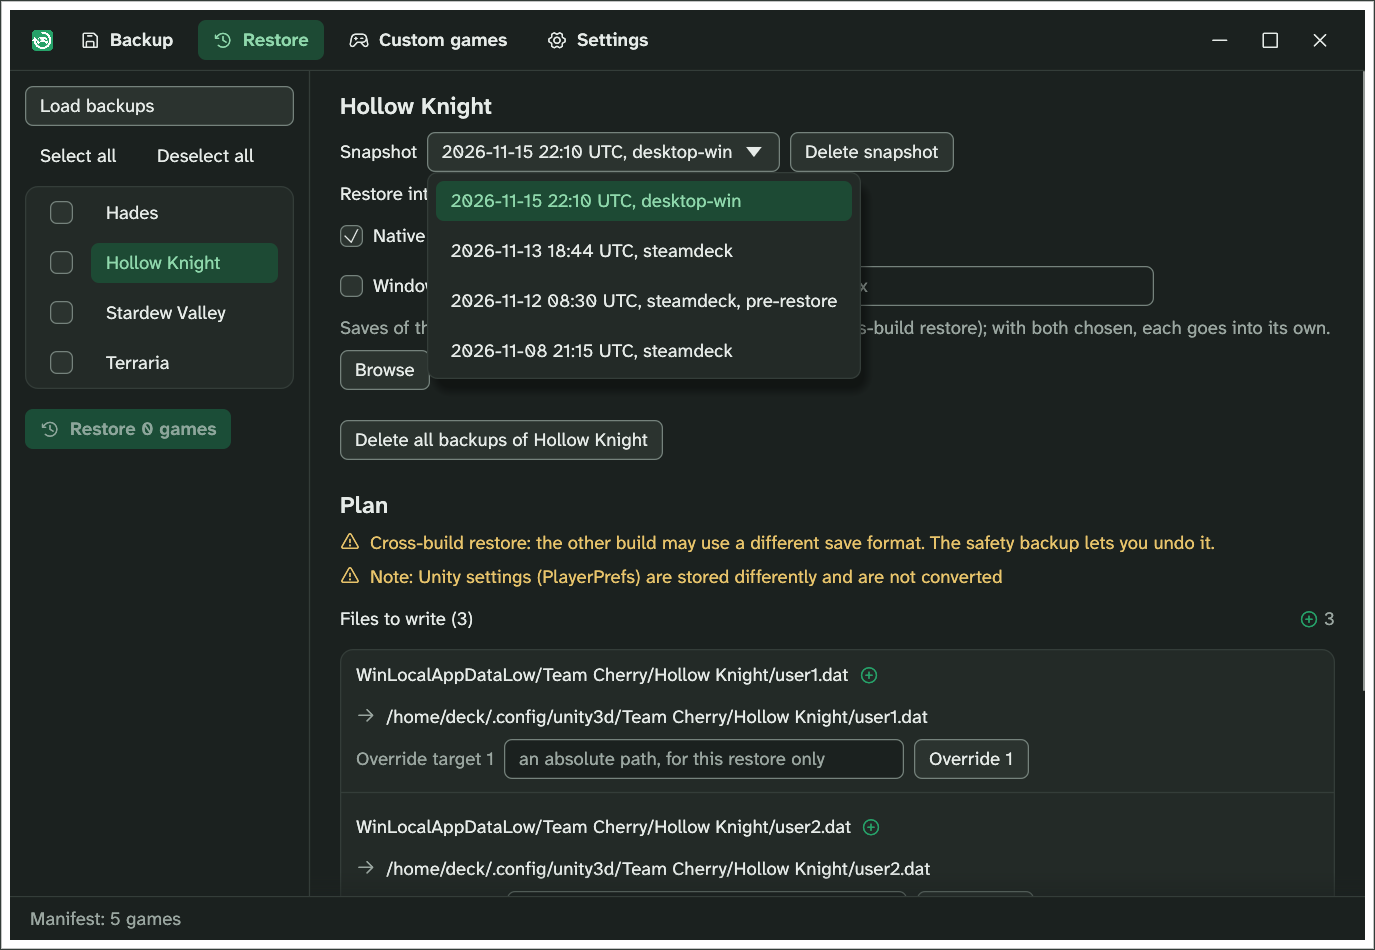
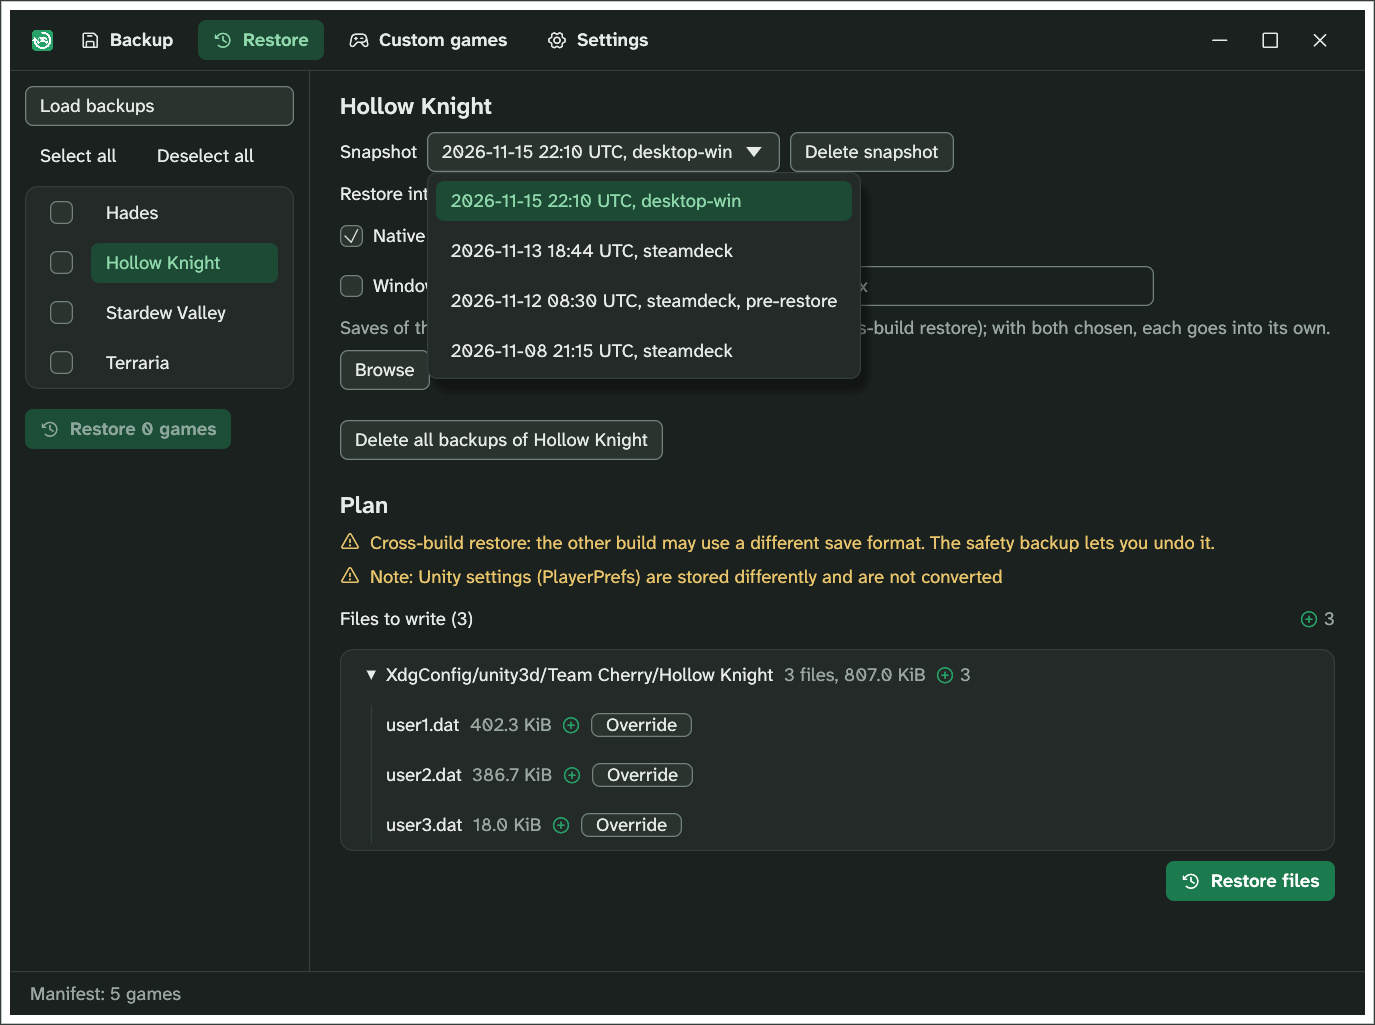
docs: re-render the Restore screenshot with the plan as a file tree

diff --git a/crates/salvajocs-gui/tests/appearance.rs b/crates/salvajocs-gui/tests/appearance.rs
@@ -535,13 +535,18 @@ fn restore_tab() {
             pre_restore: false,
         },
     ];
-    let mut harness = restore_app(demo_env(&tmp), &tmp, &snapshots, "Hades", 760.0);
+    let mut harness = restore_app(demo_env(&tmp), &tmp, &snapshots, "Hades", 820.0);
 
     harness.get_by_label("Hollow Knight").click();
     run_until(&mut harness, "the default targets", |h| {
         shows(h, "Restore into:")
     });
     run_until(&mut harness, "the plan", |h| shows(h, "Files to write"));
+    // The plan's folder open shows its files, each with its Override button.
+    harness
+        .get_by_label("Open XdgConfig/unity3d/Team Cherry/Hollow Knight")
+        .click();
+    run_settled(&mut harness);
     // The picker open shows the snapshots of every host and the safety backup.
     harness.get_by_label("Snapshot").click();
     capture(&mut harness, &dir, "restore");
